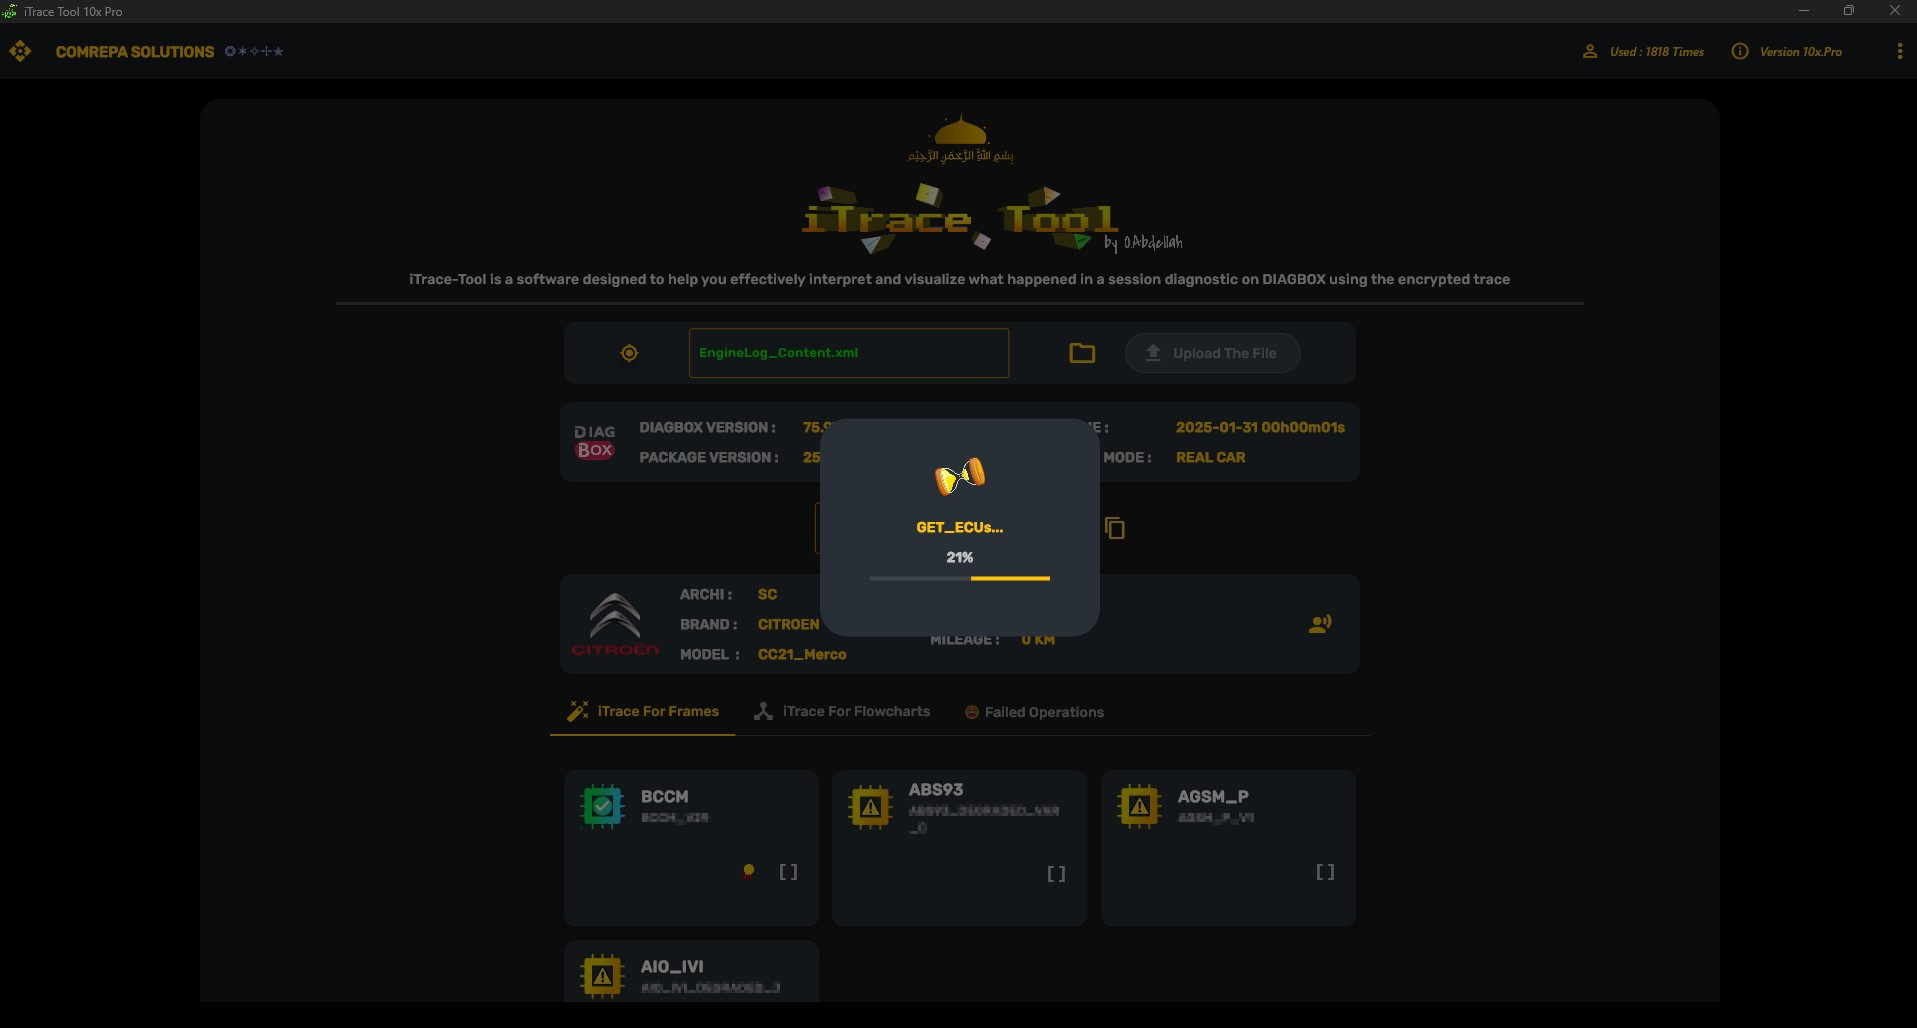
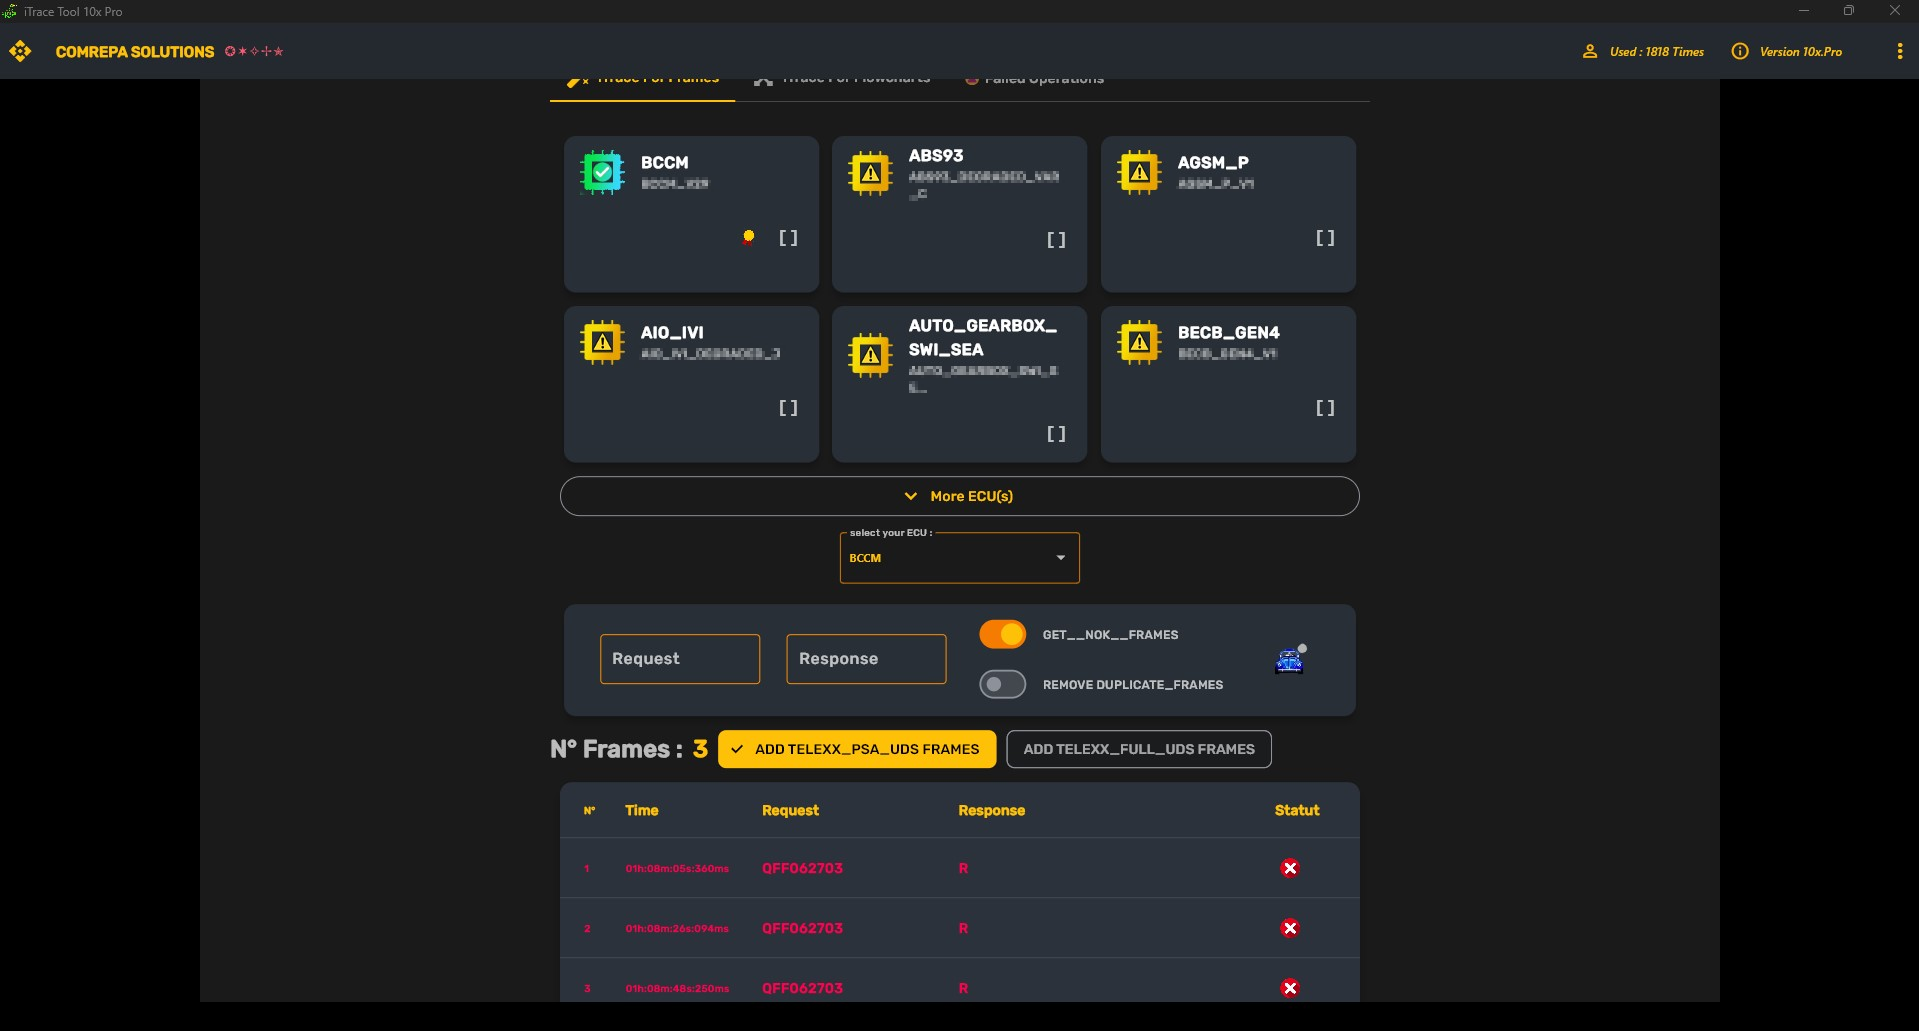
fix bugs

diff --git a/data.js b/data.js
@@ -90,7 +90,7 @@ const DATA = {
       name: "iTraceTool",
       icon: "assets/Projects/iTraceTool/icon.png",
       tech: ["Python", "flutter"],
-      description: "Application for interpretation and visualization of encrypted <strong>DIAGBOX</strong> logs. Provides an intuitive interface to analyze complex diagnostic data, generate test scripts, track data and flowcharts, and display key vehicle info (VIN, architecture...).",
+      description: "Application for interpretation and visualization of encrypted <strong>DIAGBOX</strong> logs. Provides an intuitive interface to analyze complex diagnostic data, generate test scripts, track data and flowcharts....",
       screenshots: Array.from({ length: 14 }, (_, i) => `assets/Projects/iTraceTool/screenshot-${i + 1}.png`),
     },
     {